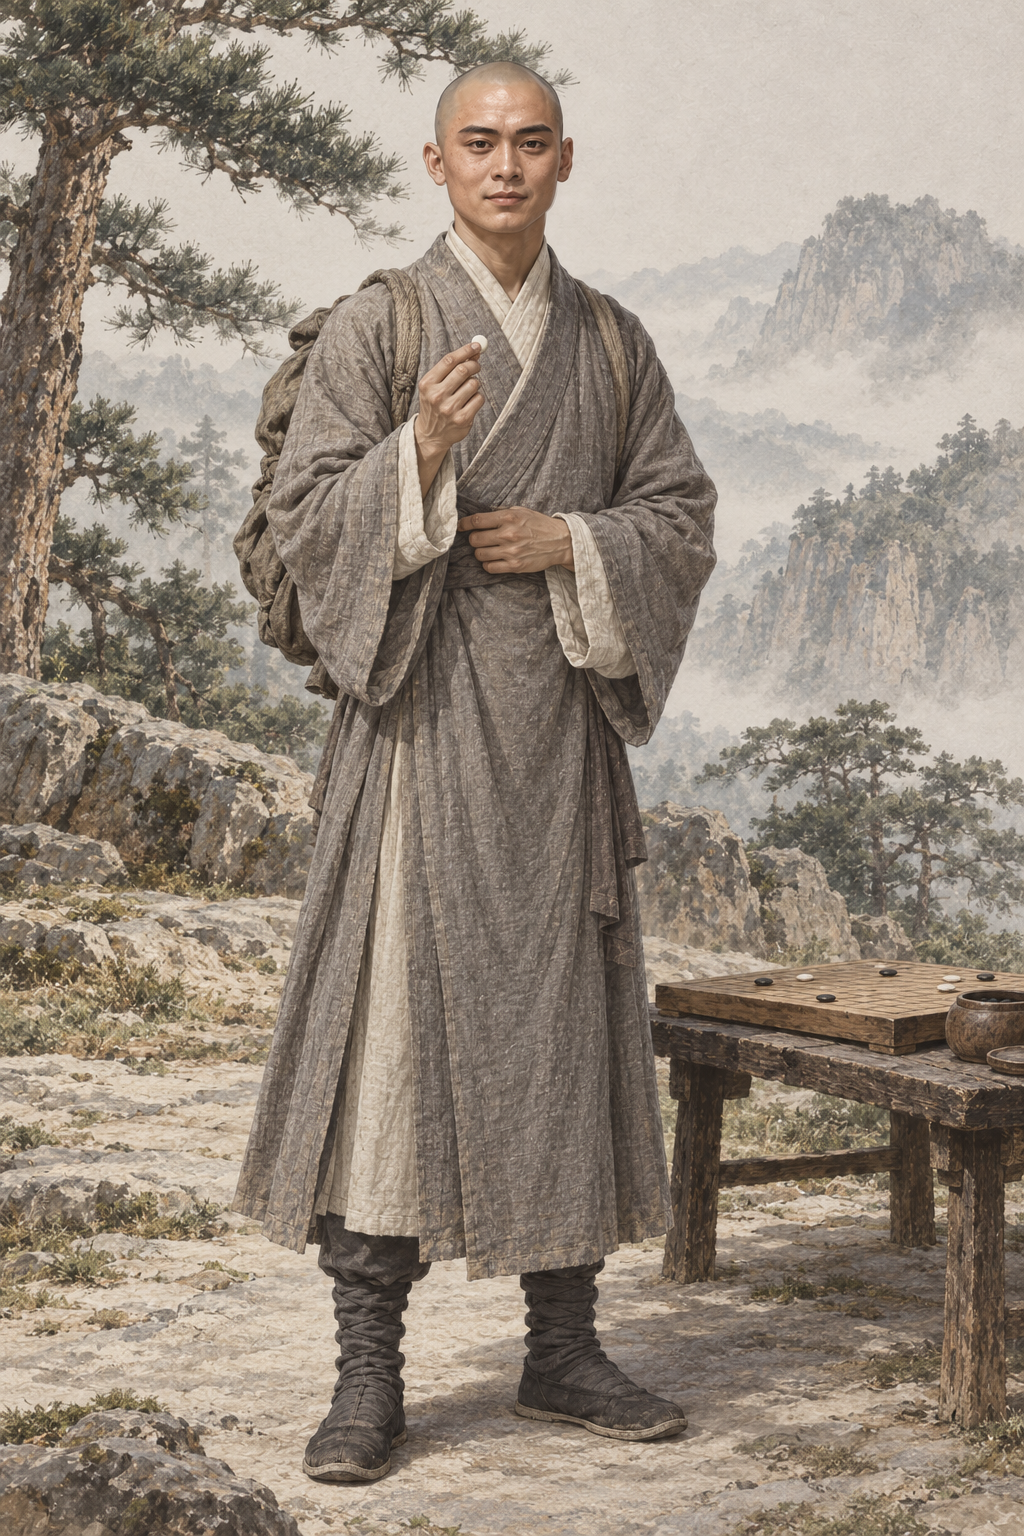
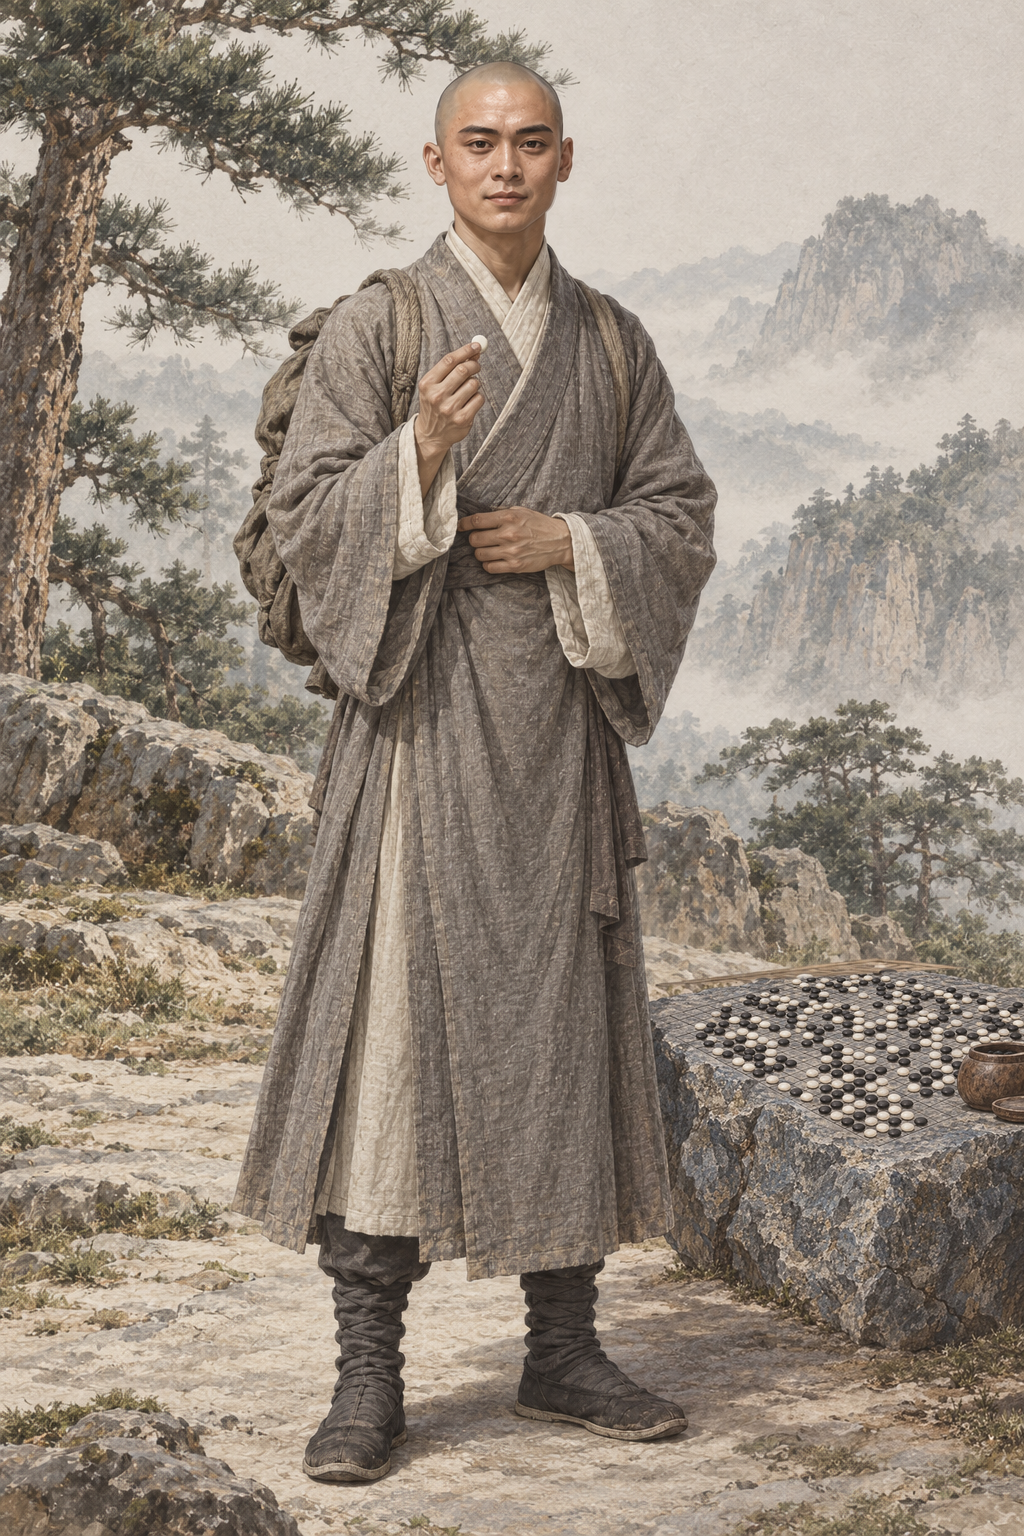
assets: AR-82 原著核对返修 虚竹珍珑改青石刻棋盘及密集残局
原著摘句已同步提示词；已打开验图；蒙版外0像素变化。

Executed-By: Codex gpt-6.1-sol（AR-82）

Changed region(s): [[0.625, 0.625, 1.0, 0.9375]]

diff --git a/assets/default/prompts/characters/ch01-tianlong/npc_xuzhu__scene_zhenlong_unintended_move.md b/assets/default/prompts/characters/ch01-tianlong/npc_xuzhu__scene_zhenlong_unintended_move.md
@@ -118,3 +118,8 @@ Create a premium REALISTIC Chinese wuxia character illustration with a delicate 
 - 采用作者授权宽松自查；偏差如实记录，candidate不代表approved。
 - 源PNG通常为1024×1536 RGB；其他原生2:3尺寸如实登记，原字节保存，不裁切、重编码、放大或去除溯源。
 - 完整请求、实际参考哈希及旧版本备份见 `.agents/coord/portrait-generation/realism-20261001/por_npc_xuzhu__ch01_youth_scene_zhenlong_unintended_move.prepared.json`。
+
+## 原著依据
+
+- 《天龙八部》第三十一回 输赢成败 又争由人算：“棋盘雕在一块大青石上”；“双方各已下了百余子”；https://www.xuges.com/wuxia/jinyong/tlbb/236.htm
+- AR-82 返修约束（本节优先于历史提示词）：只把右下方独立木棋桌改为一块大青石，石顶直接雕出十九路棋盘，棋盘必须刻在整块石面上，不能是另放木板。棋盘上是密集而错综的黑白珍珑残局，双方各百余子（合计两百余子，约十九路棋盘六成填满），密集棋子不规则分布，不画零散几粒。虚竹与手中白子和其他背景完全不动。
